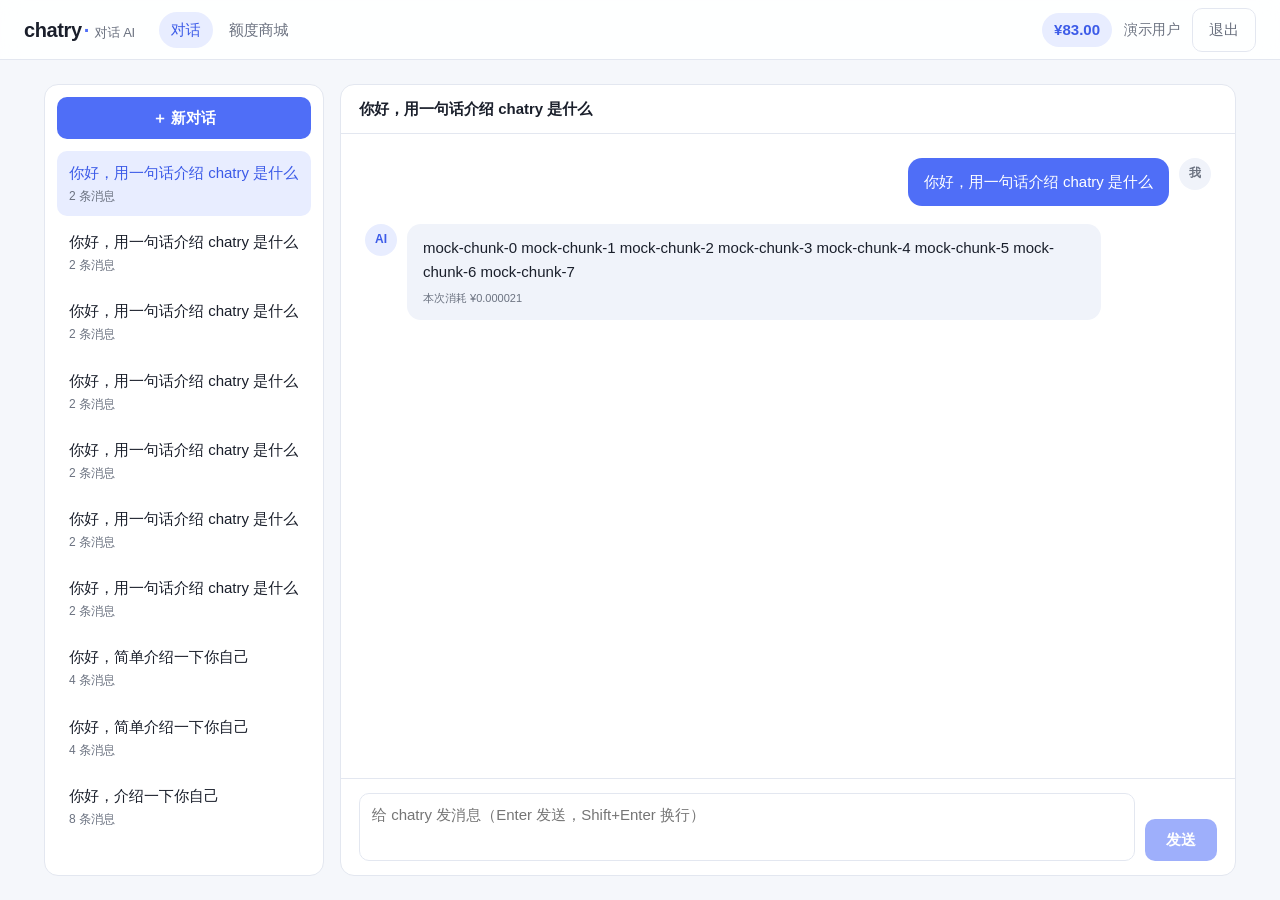
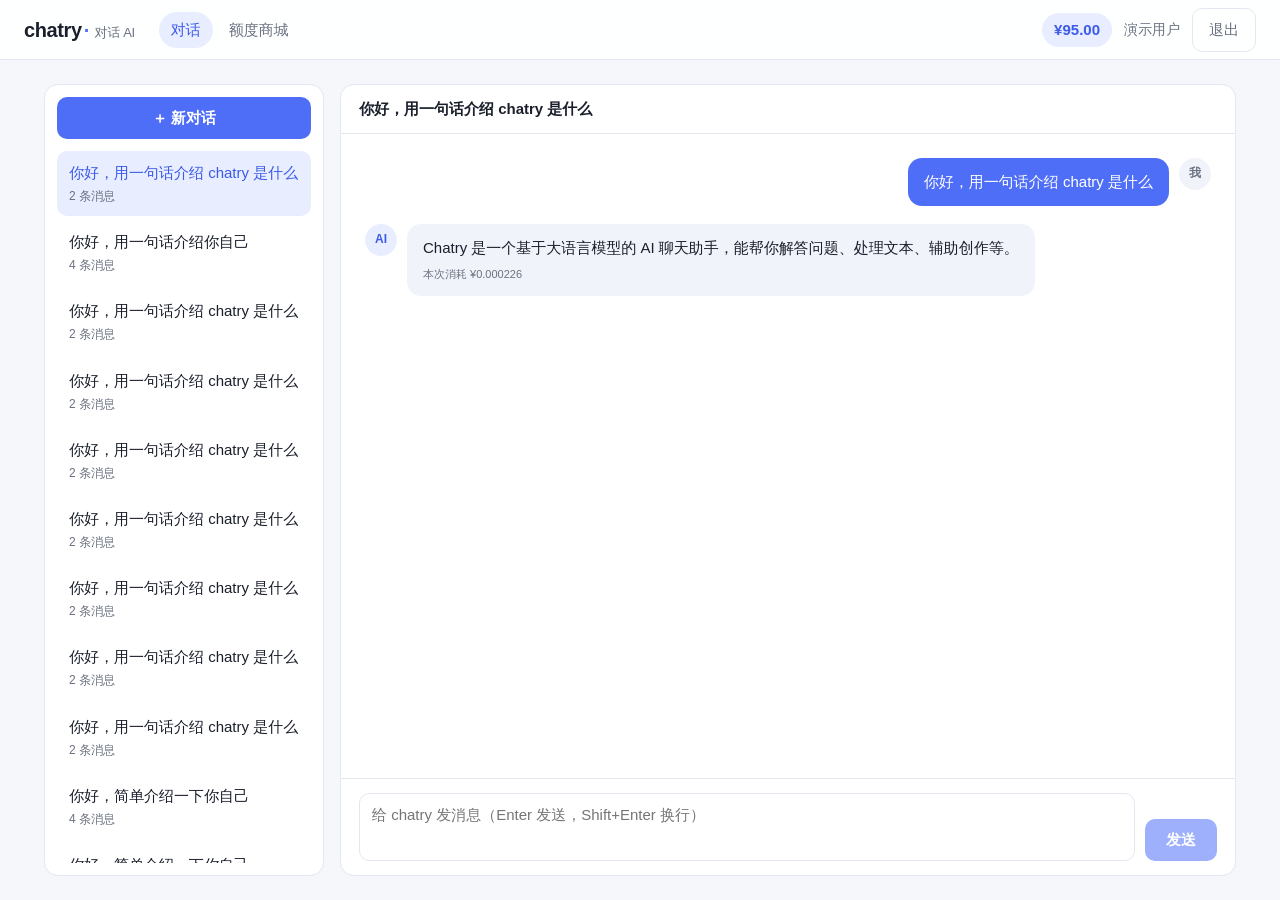
feat(llm): 接入真实 DeepSeek（deepseek-flash）+ 启动脚本与费用说明
- scripts/dev-run-deepseek.sh：从 ~/.config/atry/deepseek.env 注入 key，切真实模型
- 真实回复/SSE 经公网反代验证：provider=deepseek、按 token 计费、余额实时下降
- README 说明 mock 与真实模型切换、单条成本与公开演示耗 key 风险；截图更新为真实回复

diff --git a/README.md b/README.md
@@ -81,7 +81,15 @@ scripts/flash-concurrency.sh
 本机也可直接访问 http://127.0.0.1:8084/ 。演示账号 `demo / demo123456`，管理员 `admin / admin12345`（演示环境关闭强制改密）。
 反向代理配置见 [docs/deploy-nginx.md](docs/deploy-nginx.md)。
 
-接真实模型：`DEEPSEEK_ENABLED=true DEEPSEEK_API_KEY=... CHATRY_CHAT_MODEL=deepseek-flash`。
+默认是 `mock-small` 假模型（固定回 `mock-chunk-0…7`，不产生费用）。接真实 DeepSeek：
+
+```bash
+scripts/dev-run-deepseek.sh   # 读 ~/.config/atry/deepseek.env 或 DEEPSEEK_API_KEY
+```
+
+每条回复按真实 token 计费（输入 ¥2/M、输出 ¥8/M），一条短回复约 ¥0.0002–0.0005。切回 mock：不带 `DEEPSEEK_ENABLED` 重启即可。
+
+> ⚠ 演示地址是公开的、demo 账密也写在页面提示里：接入真实 key 后，任何拿到地址的人都能消耗你的 DeepSeek 额度。对外分享前建议改 demo 密码或只在内测环境开真实模型。
 
 ## API
 
